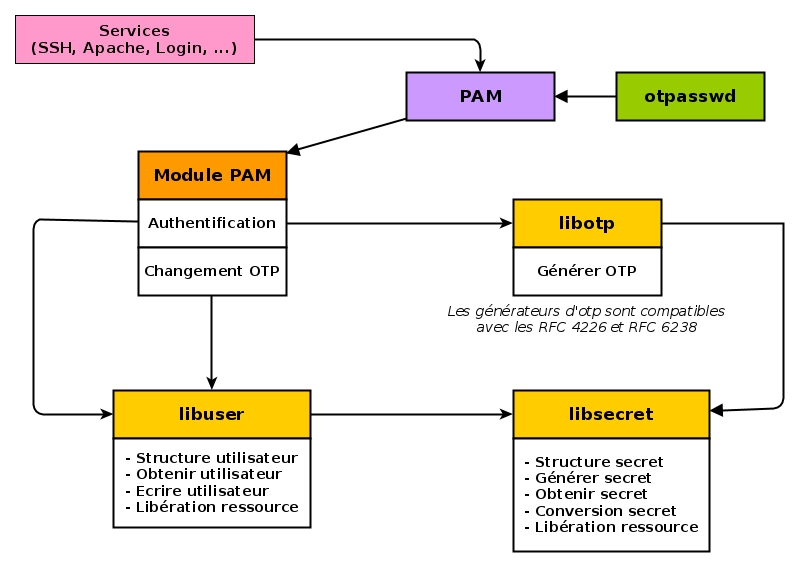
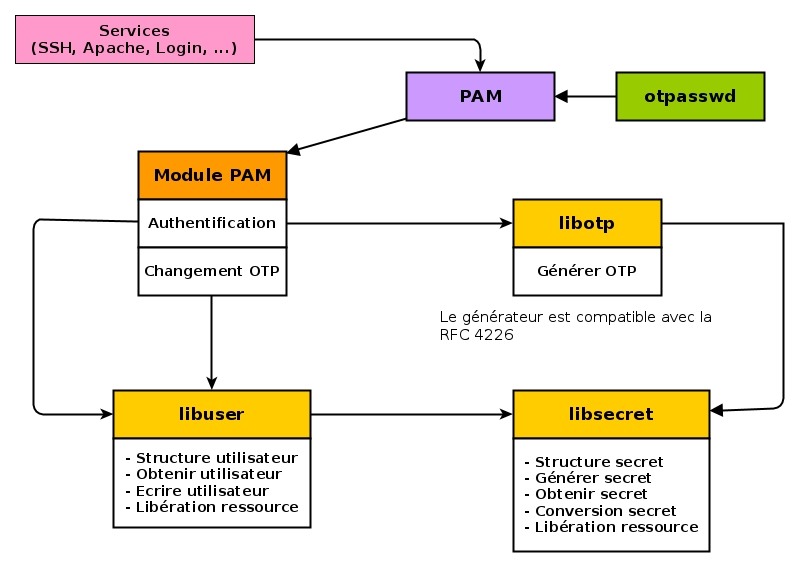
partie 2 finie, ajout d'un annexe et du schema d'arch PAM

Changed region(s): [[0.5414, 0.5397, 0.9023, 0.5996]]

diff --git a/doc/Rapport Final/part2.tex b/doc/Rapport Final/part2.tex
@@ -1,7 +1,96 @@
 \chapter{Mise en œuvre}
 \section{La demande du client}
 
- \section{La gestion de projet}
+  Le projet a pour but de satisfaire la demande de nos clients :
+
+  \begin{description}
+    \item[Magali \bsc{Bardet}:] Enseignante-Chercheuse à l'université de Rouen.
+    \item[Bruno \bsc{Macadré}:] Ingénieur d'études à l'université de Rouen.\\
+  \end{description}
+
+  Parmi les livrables à fournir, on compte :
+
+  \begin{itemize}
+    \item Un état de l'art.
+    \item Une implémentation des protocoles retenus.
+  \end{itemize}
+
+  \subsection{État de l'art}
+
+    L'état de l'art consiste en une étude des protocoles existants afin de
+    déterminer les avantages et incovénients de chacuns et, à l'issue, choisir
+    ceux que nous implémeterons, en accord avec le client.
+
+    Afin d'optimiser le temps dédié à l'étude, nous avons formé trois équipes
+    de recherches, chacune devant lire les RFC de deux protocoles et établir
+    un rapport d'étude. Voici la formation choisie :
+
+    \begin{itemize}
+        \item OTP - OTPW
+      \begin{itemize}
+        \item Damien \bsc{Picard}
+        \item Adrien \bsc{Smondack}
+      \end{itemize}
+      \item EAP-POTP (WiFi)
+      \begin{itemize}
+        \item Tayewo-John-Yves \bsc{Adegoloye}
+        \item Claire \bsc{Hardouin}
+      \end{itemize}
+      \item HOTP - TOTP
+      \begin{itemize}
+        \item Gaëtan \bsc{Ferry}
+        \item Maxime \bsc{Michotte}
+        \item Benjamin \bsc{Zigh}
+      \end{itemize}
+    \end{itemize}
+
+    L'ensemble des rapports fournit nous a permit d'établir un rapport complet
+    et détaillé, avec un comparatif de chacun des protocoles et concluant sur
+    nos choix d'implantation :
+
+    \begin{itemize}
+      \item HOTP
+      \item TOTP
+    \end{itemize}
+
+    Pour plus d'informations sur les protocles étudiés et les critères de
+    sélection, vous pouvez vous reporter à l'état de l'art.
+
+
+  \subsection{Application}
+
+      Pour chaque protocoles validés par l'état de l'art nous devions fournir :
+
+      \begin{itemize}
+        \item Un module d'authentification.
+        \item Un token.
+      \end{itemize}
+
+      Dans la mesure où ces deux éléments fonctionnent ensemble et que
+      certaines bibliothèques sont identiques des deux côtés, nous avons
+      décider de les développer en parallèle afin d'avoir une base commune
+      solide.
+
+      Le groupe a donc été séparé en deux équipes dont voici la formation :
+
+      \begin{itemize}
+        \item PAM
+        \begin{itemize}
+          \item Claire \bsc{Hardouin}
+          \item Damien \bsc{Picard}
+          \item Adrien \bsc{Smondack}
+          \item Maxime \bsc{Michotte}
+        \end{itemize}
+        \item Android
+        \begin{itemize}
+          \item Gaëtan \bsc{Ferry}
+          \item Benjamin \bsc{Zigh}
+          \item Tayewo-John-Yves \bsc{Adegoloye}
+        \end{itemize}
+      \end{itemize}
+
+
+\section{La gestion de projet}
 
   \subsection{Communication au sein du groupe}
 
@@ -88,7 +177,7 @@
     L'avancement du projet y apparait aussi clairement de même que toutes les
     dates importantes. C'est un document à mettre à jour très régulièrement.
 
-    \href{../graphics/gantt2-0.png}{capture}
+    Un lien vers une capture du Gantt est disponible en \ref{annexe}.
 
     Les documents ont donc été particulièrement utiles notamment, l'\emph{
     analyse des risques} dont le formalisme a rendu la résolutions d'obstacle
@@ -131,6 +220,15 @@
 \newpage
 %------------------------------------------------------------------------------
 \section{Le Module PAM}
+\subsection{Qu'est-ce que PAM ?}
+PAM est un mécanisme d'authentification permettant a tout programme souhaitant
+une authentification de charger un certains nombre de sous programmes devant
+vérifier une authentification. Ces sous programmes sont contenus dans des
+fichiers compilés appelés modules PAM.
+
+Chaque programme demandant une authentification possède un fichier de configuration permettant à l'administrateur de configurer quels modules charger pour ce service.
+
+Ce mécanisme, accessible pour n'importe quel processus, est donc extensible et configurable a volonté.
 \subsection{Pourquoi un module PAM ?}
 La première solution d'implémentation envisagée était de reprogrammer un
 serveur d'authentification complet. Cette solution posait deux problème:
@@ -259,7 +357,7 @@ Pour TOTP cela revient même à réduire les chance de réussite d'une attaque
 exhaustive à une probabilité de $\frac{q\times w}{d\times10^{l}}$ avec des OTP
 sur un quantum $q$, d'une longueur $l$ avec un delay $d$.
 
-%-------------------------------------------------------------------------------
+
 \subsubsection{Fonction d'initialisation de secret}
 Cette fonction permet d'implémenter la demande d'initialisation de secret.
 C'est cette fonction qui sera appelé lorsqu'un service configuré pour utiliser
@@ -274,9 +372,14 @@ information d'authentification, c'est à dire:
 \end{itemize}
 Une fois ces information fourni le secret sera affiché. Cela implique que le
 renouvellement de secret doit se faire lorsque la connexion est sûre.
-
-%-------------------------------------------------------------------------------
 \newpage
+\subsection{Schéma d'architecture logicielle PAM}
+  \begin{figure}[h!]
+    \centering
+    \includegraphics[width=\textwidth]{../graphics/architecturepammodule.jpg}
+    \caption{Architecture logicielle du module PAM}
+  \end{figure}
+
 %------------------------------------------------------------------------------
 \section{L'application Android}
 \subsection{La bibliothèque de calcul}
@@ -396,7 +499,3 @@ clefs secrètes qui y sont stockés. De la même manière, le fait que le PIN de
 soit stocké sous la forme d'un haché, implique que même après accès au fichier de stockage du
 PIN, l'attaquant ne pourra pas déduire le PIN de l'utilisateur et donc la clef AES de
 déchiffrement du fichier de \emph{token}.
-
-
-
-

diff --git a/doc/Rapport Final/TeX Report.tex b/doc/Rapport Final/TeX Report.tex
@@ -32,4 +32,6 @@
 
 \include{bib}
 
+\include{annexe}
+
 \end{document}
